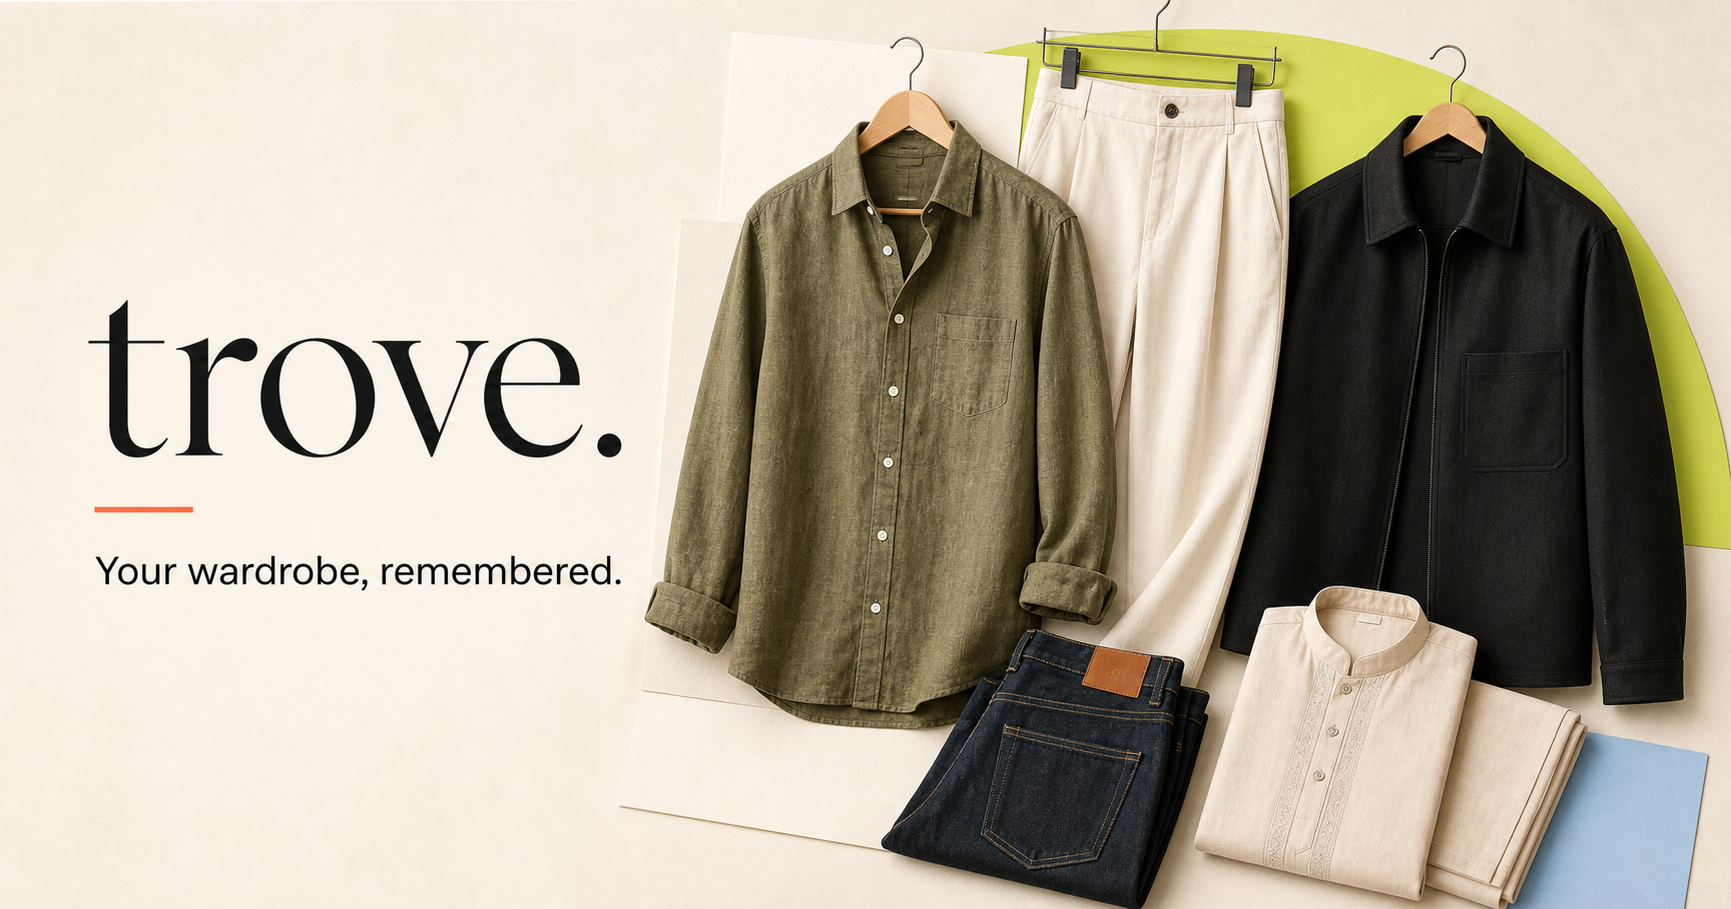
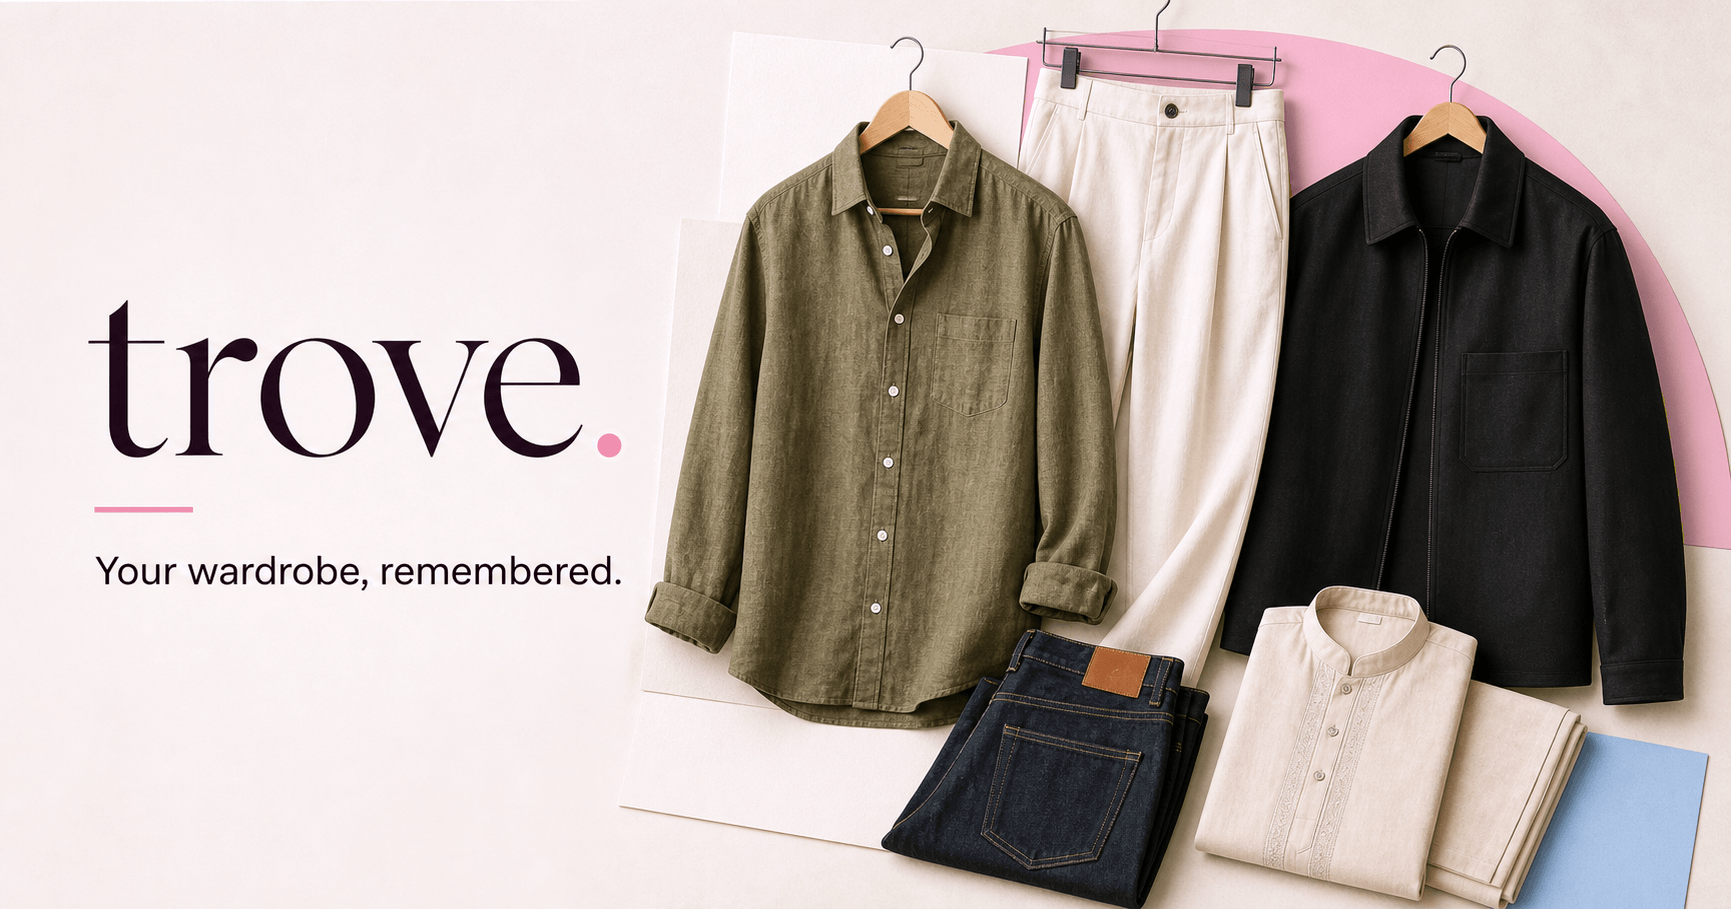
Recolour the brand to plum and blush; fix the Android splash
- Plum #1F0818 icon tile with a blush hanger and rose dot; manifest
  background and theme colour are plum, so the launch screen is one
  seamless plum screen instead of a dark square on white.
- Login page, offline page and share image use the new palette.
- Service worker cache versions bumped so installed apps drop old icons.

diff --git a/app/lib/login-page.ts b/app/lib/login-page.ts
@@ -81,30 +81,40 @@ const STYLES = `
   font-display: swap;
   src: url(/fonts/dm-serif-display-latin.woff2) format("woff2");
 }
+/* The app's plum + blush palette. Contrast (WCAG 2.2 AA) in both themes:
+   text and error >= 4.5:1, field border and focus ring >= 3:1 against page
+   and field. The button is whichever of plum and blush stands out more from
+   the page: plum on the light page, blush on the plum one. */
 :root {
-  --paper: #f5f1e9;
-  --ink: #171714;
-  --lime: #c8ff62;
-  --coral: #ff6b4a;
-  --bg: var(--paper);
-  --fg: var(--ink);
-  --muted: rgba(23, 23, 20, 0.62);
-  /* Field border and focus ring stay >= 3:1 against page and field. */
-  --line: #858176;
-  --focus: var(--ink);
-  --field: #fffdf8;
-  --error: #c23b1e;
+  --plum: #1F0818;
+  --plum-high: #3A1832;
+  --blush: #F4B6CE;
+  --rose: #F08CAF;
+  --ivory: #F8EEF1;
+  --bg: #F8F1F2;
+  --fg: var(--plum);
+  --muted: #6B5563;
+  --line: #8E7585;
+  --focus: var(--plum);
+  --field: #FFFAFB;
+  --error: #B3264F;
+  --button-bg: var(--plum);
+  --button-fg: var(--ivory);
+  --button-hover: var(--plum-high);
   color-scheme: light;
 }
 @media (prefers-color-scheme: dark) {
   :root {
-    --bg: var(--ink);
-    --fg: var(--paper);
-    --muted: rgba(245, 241, 233, 0.64);
-    --line: #7d796e;
-    --focus: var(--coral);
-    --field: #22211d;
-    --error: var(--coral);
+    --bg: var(--plum);
+    --fg: var(--ivory);
+    --muted: #BFA2B2;
+    --line: #8A6C7E;
+    --focus: var(--blush);
+    --field: #2B1024;
+    --error: #FF8A9A;
+    --button-bg: var(--blush);
+    --button-fg: var(--plum);
+    --button-hover: #F8C9DB;
     color-scheme: dark;
   }
 }
@@ -128,7 +138,8 @@ h1 {
   font: 400 clamp(3rem, 14vw, 4rem)/1 "DM Serif Display", Georgia, "Times New Roman", serif;
   letter-spacing: -0.02em;
 }
-h1 span { color: var(--coral); }
+h1 span { color: var(--rose); }
+::selection { background: var(--blush); color: var(--plum); }
 .lede { margin: 0 0 32px; color: var(--muted); }
 label { display: block; margin-bottom: 8px; font-weight: 600; }
 input[type="password"] {
@@ -139,7 +150,13 @@ input[type="password"] {
   border-radius: 14px;
   background: var(--field);
   color: var(--fg);
+  caret-color: var(--fg);
   font: inherit;
+}
+/* Keep the field on-theme when a password manager fills it. */
+input[type="password"]:-webkit-autofill {
+  -webkit-text-fill-color: var(--fg);
+  box-shadow: 0 0 0 100px var(--field) inset;
 }
 input[type="password"]:focus-visible, button:focus-visible {
   outline: 3px solid var(--focus);
@@ -163,12 +180,17 @@ button {
   height: 52px;
   border: 0;
   border-radius: 999px;
-  background: var(--lime);
-  color: var(--ink);
+  background: var(--button-bg);
+  color: var(--button-fg);
   font: 700 1rem/1 "DM Sans", system-ui, -apple-system, "Segoe UI", Roboto, sans-serif;
   cursor: pointer;
+  transition: background-color 0.15s ease;
 }
+button:hover:not(:disabled) { background: var(--button-hover); }
 button:disabled { opacity: 0.7; cursor: progress; }
+@media (prefers-reduced-motion: reduce) {
+  button { transition: none; }
+}
 `;
 
 // Wipes offline data left by an earlier session on this device: service
@@ -216,8 +238,8 @@ export function renderLoginPage(nonce: string, notice: LoginNotice) {
 <meta name="robots" content="noindex, nofollow">
 <meta name="referrer" content="same-origin">
 <meta name="color-scheme" content="light dark">
-<meta name="theme-color" content="#f5f1e9" media="(prefers-color-scheme: light)">
-<meta name="theme-color" content="#171714" media="(prefers-color-scheme: dark)">
+<meta name="theme-color" content="#F8F1F2" media="(prefers-color-scheme: light)">
+<meta name="theme-color" content="#1F0818" media="(prefers-color-scheme: dark)">
 <link rel="icon" href="/favicon.ico" sizes="32x32">
 <link rel="icon" href="/icons/icon.svg" type="image/svg+xml">
 <link rel="apple-touch-icon" href="/icons/apple-touch-icon.png">

diff --git a/public/sw.js b/public/sw.js
@@ -1,11 +1,11 @@
 // Trove service worker: keeps the app shell and wardrobe photos available
-// offline. Wardrobe data itself lives in IndexedDB (app/WardrobeApp.tsx), so
+// offline. Wardrobe data itself lives in IndexedDB (app/lib/client/local-data.ts), so
 // every API call other than photos goes straight to the network.
 //
 // Caches (bump a version suffix to drop that cache on every device):
-//   trove-static-v3  GET /_next/static/*, /icons/*  cache-first. Build files
+//   trove-static-v4  GET /_next/static/*, /icons/*  cache-first. Build files
 //                    are content-hashed; icons refresh only with a new version.
-//   trove-pages-v3   page loads                      network-first (4 s), and
+//   trove-pages-v4   page loads                      network-first (4 s), and
 //                    only a signed-in "/" is kept, as the offline app shell.
 //   trove-images-v3  GET /api/images/*               cache-first by full URL,
 //                    newest ~800 kept.
@@ -22,8 +22,8 @@
 //                             keep what a page loaded before this worker
 //                             controlled it, by the rules above
 
-const STATIC_CACHE = "trove-static-v3";
-const PAGES_CACHE = "trove-pages-v3";
+const STATIC_CACHE = "trove-static-v4";
+const PAGES_CACHE = "trove-pages-v4";
 const IMAGES_CACHE = "trove-images-v3";
 const CURRENT_CACHES = [STATIC_CACHE, PAGES_CACHE, IMAGES_CACHE];
 const CACHE_PREFIX = "trove-";
@@ -283,16 +283,20 @@ function offlinePage() {
 <title>Trove is offline</title>
 <style>
   body { margin: 0; min-height: 100vh; display: grid; place-items: center;
-    padding: 24px; box-sizing: border-box; background: #f5f1e9; color: #171714;
-    font: 16px/1.5 system-ui, sans-serif; text-align: center; }
-  h1 { margin: 0 0 8px; font: 800 32px/1.1 Georgia, serif; letter-spacing: -1px; }
-  h1 span { color: #ff6b4a; }
-  p { margin: 0 0 20px; color: #77766f; }
-  a { display: inline-block; padding: 10px 18px; border-radius: 100px;
-    background: #c8ff62; color: #171714; font-weight: 650; text-decoration: none; }
+    padding: 24px; box-sizing: border-box; background: #f8f1f2; color: #1f0818;
+    font: 16px/1.5 "DM Sans", system-ui, sans-serif; text-align: center; }
+  h1 { margin: 0 0 8px; font: 400 40px/1.1 "DM Serif Display", Georgia, serif;
+    letter-spacing: -0.02em; }
+  h1 span { color: #f08caf; }
+  p { margin: 0 0 20px; color: #6b5362; }
+  a { display: inline-block; padding: 12px 20px; border-radius: 100px;
+    background: #1f0818; color: #f8eef1; font-weight: 600; text-decoration: none; }
+  a:focus-visible { outline: 3px solid #1f0818; outline-offset: 3px; }
   @media (prefers-color-scheme: dark) {
-    body { background: #171714; color: #f5f1e9; }
-    p { color: #a3a198; }
+    body { background: #170511; color: #f8eef1; }
+    p { color: #cbb1bf; }
+    a { background: #f4b6ce; color: #1f0818; }
+    a:focus-visible { outline-color: #f4b6ce; }
   }
 </style>
 <main>
